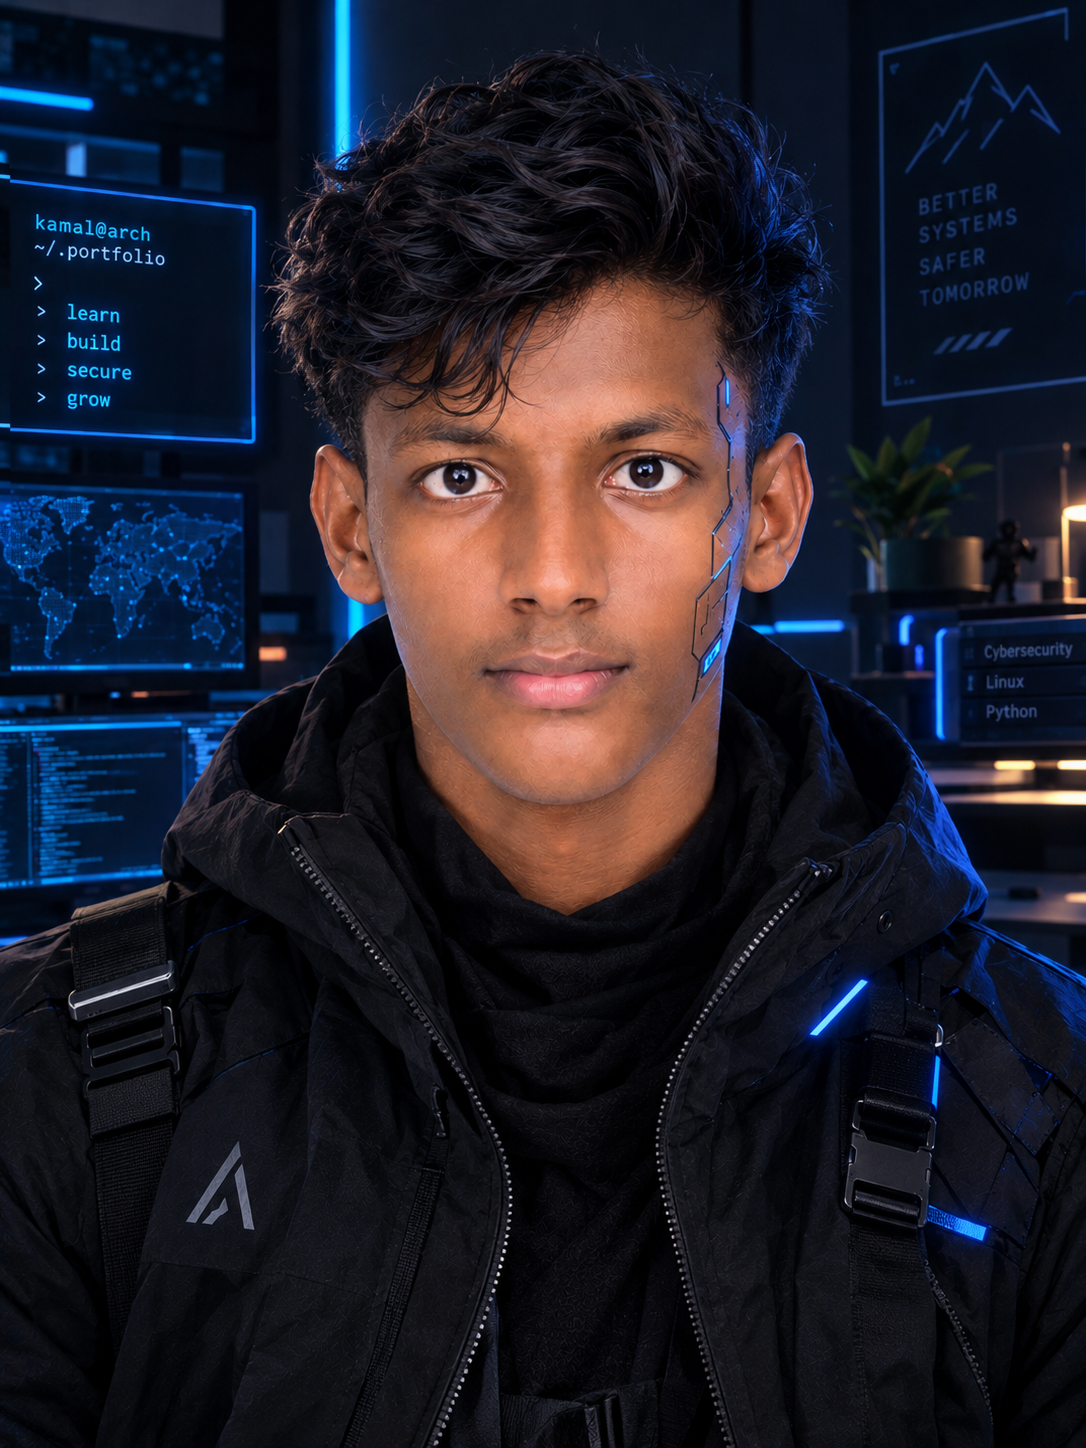
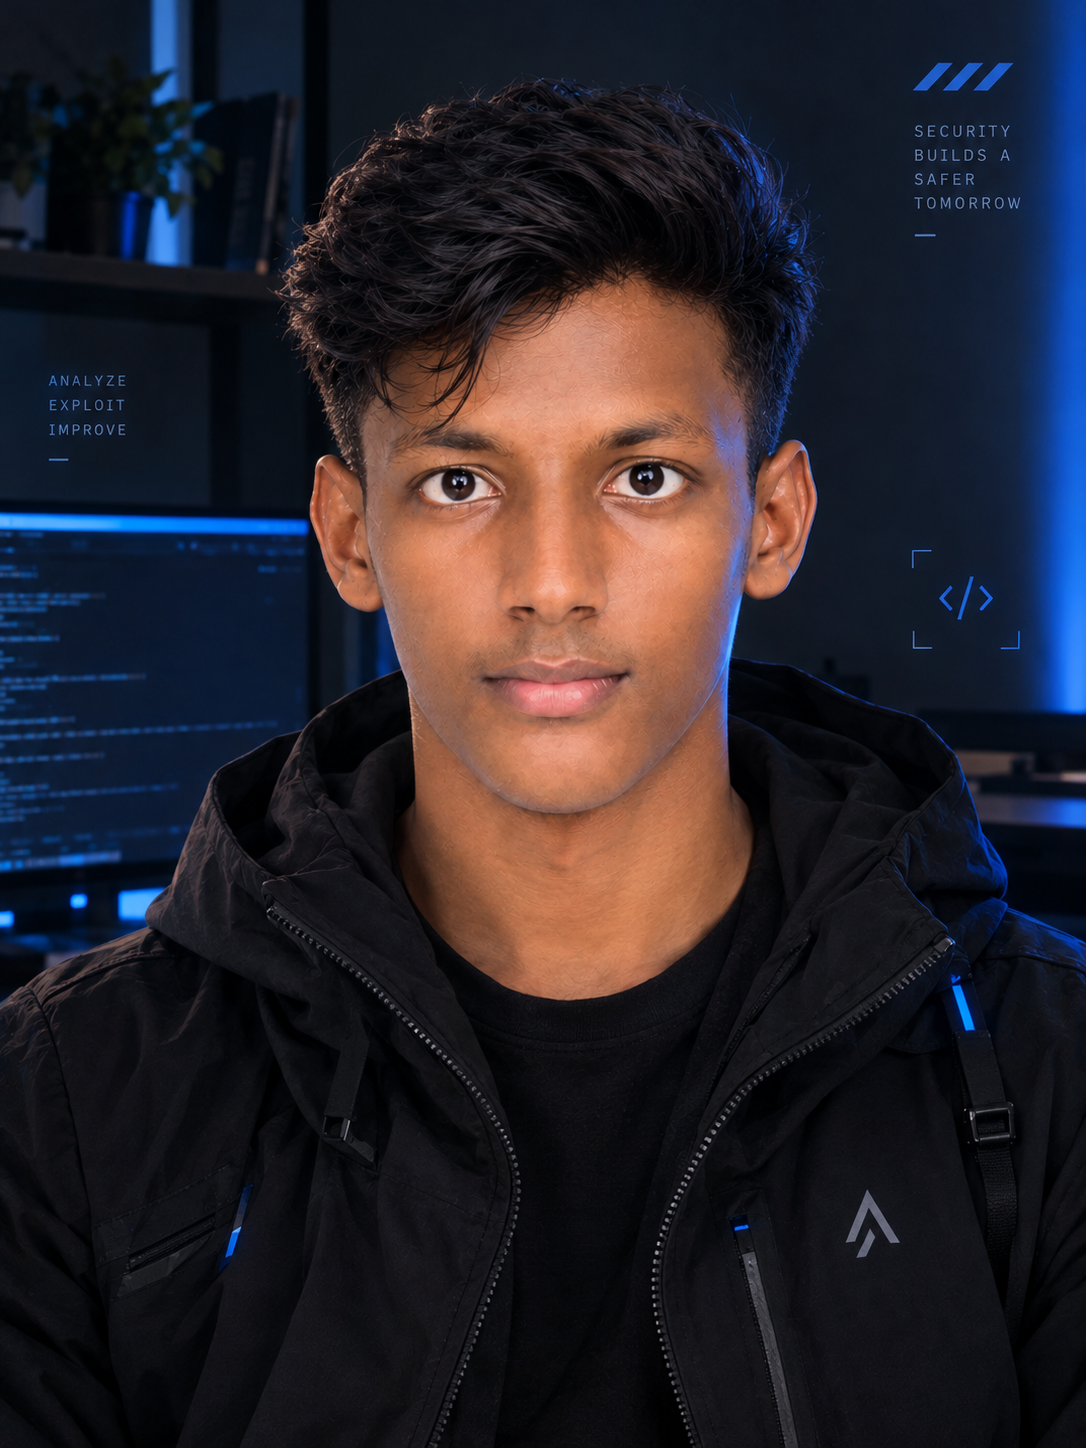
M: revamp

diff --git a/js/site-config.js b/js/site-config.js
@@ -13,7 +13,7 @@ window.KS_CONFIG = {
       note: 'Transparent-background portrait, e.g. png'
     },
     PHOTO_PORTRAIT_FALLBACK: {
-      value: 'assets/images/Neon-Cyborg-Portrait.png',
+      value: 'assets/images/kamalesh-portrait-cutout.png',
       status: 'candidate',
       note: 'Normal portrait shown in a chamfered frame, e.g. assets/images/kamalesh-portrait.jpg'
     },
@@ -23,7 +23,7 @@ window.KS_CONFIG = {
       note: 'Code-drawn silhouette used until a real photo is supplied'
     },
     FAVICON: { value: 'assets/images/favicon.svg', status: 'candidate', note: 'Code-drawn KS monogram; supply favicon.ico if preferred' },
-    OG_IMAGE: { value: null, status: 'missing', note: '1200x630 share image, e.g. assets/images/og-preview.png' },
+    OG_IMAGE: { value: 'assets/images/OS-cutout.png', status: 'candidate', note: '1200x630 share image, e.g. assets/images/og-preview.png' },
 
     GITHUB_PROFILE_URL: { value: 'https://github.com/kamalesh-sudo', status: 'candidate' },
     LINKEDIN_URL: { value: 'https://www.linkedin.com/in/kamalesh-s-260588305/', status: 'candidate' },
